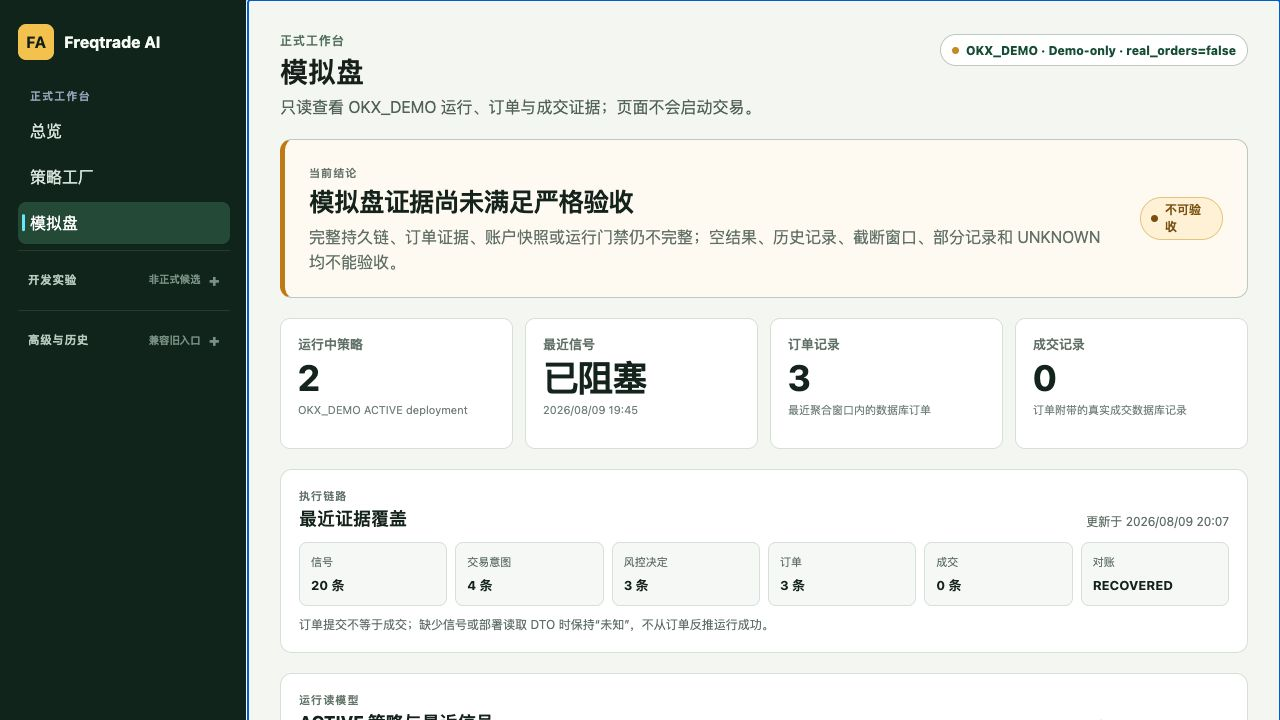
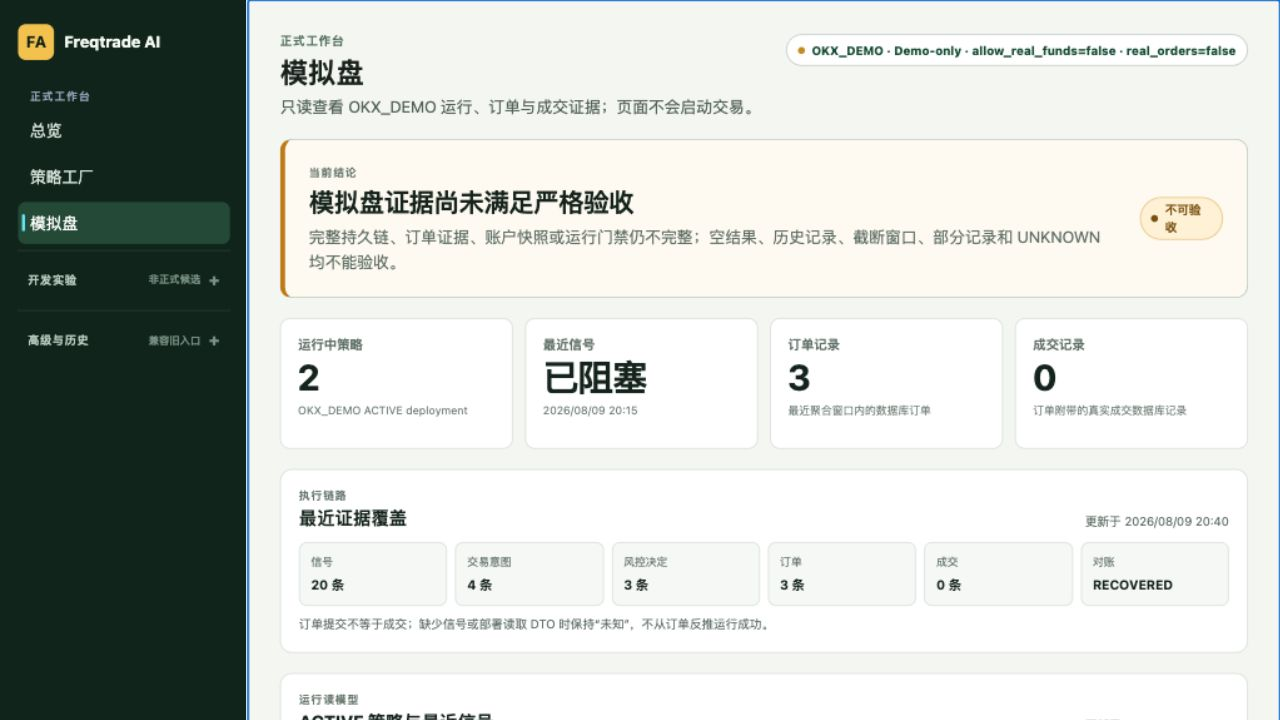
fix(frontend): complete desktop formal page states

diff --git a/frontend/src/pages/Dashboard.tsx b/frontend/src/pages/Dashboard.tsx
@@ -14,7 +14,7 @@ import { useFormalCatalogData } from "../api/useFormalCatalogData";
 import { EmptyState, FormalLoadingState, PageHeader, StatusBadge } from "../components/DisplayPrimitives";
 import { okxDemoAcceptanceIsTruthful } from "./okxDemoDisplay";
 import { deploymentHandoffText, validatedCandidateCount } from "./strategyFactoryModel";
-import { displayDateTime } from "./uiCopy";
+import { displayDateTime, displayStatus } from "./uiCopy";
 
 type Loadable<T> = {
   data: T | null;
@@ -70,14 +70,22 @@ export function Dashboard() {
     : null;
   const dataHasProblem = Boolean(catalog.strategies.error || catalog.ranking.error || researchRun.error || workspace.error || runtimeActivity.error || demo.error);
   const pageLoading = catalog.strategies.loading || catalog.ranking.loading || researchRun.loading || workspace.loading || runtimeActivity.loading || demo.loading;
+  const latestSignalStatus = runtimeActivity.data?.recent_signal_evaluations[0]?.status ?? null;
+  const businessBlocked = Boolean(
+    (demo.data && !okxDemoAcceptanceIsTruthful(demo.data))
+    || latestSignalStatus === "BLOCKED"
+    || latestSignalStatus === "FAILED",
+  );
   const pageConclusion = pageLoading
     ? "正在核对正式研究与模拟盘证据"
     : dataHasProblem
       ? "部分状态无法确认，未把缺失数据计为 0"
-      : runtimeActivity.data?.active_deployments.length
-        ? "模拟盘有运行中策略，继续核对最近信号与执行证据"
-        : "正式证据已读取，当前没有 ACTIVE 模拟盘部署";
-  const pageStatus = pageLoading ? "RUNNING" : dataHasProblem ? "UNKNOWN" : "READY";
+      : businessBlocked
+        ? "模拟盘证据未满足严格验收，先核对运行与对账阻断"
+        : runtimeActivity.data?.active_deployments.length
+          ? "模拟盘有运行中策略，继续核对最近信号与执行证据"
+          : "正式证据已读取，当前没有 ACTIVE 模拟盘部署";
+  const pageStatus = pageLoading ? "RUNNING" : dataHasProblem ? "UNKNOWN" : businessBlocked ? "BLOCKED" : "READY";
   const fills = demo.data?.orders.reduce((total, order) => total + order.fills.length, 0) ?? null;
   const activities = useMemo(() => {
     const items: Array<{ id: string; title: string; meta: string; status: string }> = [];
@@ -111,20 +119,27 @@ export function Dashboard() {
   return (
     <section className="page dashboard-page formal-page">
       <PageHeader
-        actions={<span className="formal-target-chip">OKX_DEMO · Demo-only</span>}
+        actions={(
+          <>
+            <span className="formal-target-chip">OKX_DEMO · Demo-only</span>
+            <span className="formal-context-chip">Live：状态未知 · 无切换入口</span>
+          </>
+        )}
         description="先看结论、研究进度与模拟盘证据；技术详情按需展开。"
         eyebrow="正式工作台"
-        status={<StatusBadge label={pageLoading ? "读取中" : dataHasProblem ? "部分未知" : "已读取"} status={pageStatus} />}
+        status={<StatusBadge label={pageLoading ? "读取中" : dataHasProblem ? "部分未知" : businessBlocked ? "需关注" : "已读取"} status={pageStatus} />}
         title="总览"
       />
 
-      <section className="formal-conclusion" data-state={dataHasProblem ? "attention" : "neutral"}>
+      <section className="formal-conclusion" data-state={dataHasProblem || businessBlocked ? "attention" : "neutral"}>
         <div>
           <span className="formal-kicker">当前结论</span>
           <h2>{pageConclusion}</h2>
           <p>
             {dataHasProblem
               ? "可用区块继续展示真实数据；读取失败的区块保持未知，不推断系统空闲或运行正常。"
+              : businessBlocked
+                ? "只读证据已返回，但至少一项信号、订单、账户或对账条件未通过；页面不会把有记录等同于可验收。"
               : "页面不会把目录 active、QUALIFIED 或订单记录替代为 ACTIVE 部署与 signal evaluation。"}
           </p>
         </div>
@@ -213,7 +228,7 @@ export function Dashboard() {
           <dl className="formal-summary-list">
             <div><dt>部署交接</dt><dd>{workspace.data?.handoff_status === "CANONICAL_LINK_UNAVAILABLE" ? "正式生命周期衔接证据尚不可用" : deploymentHandoffText(latestResearchRun)}</dd></div>
             <div><dt>ACTIVE 运行策略</dt><dd>{runtimeActivity.loading ? "读取中" : runtimeActivity.error ? "未知" : `${runtimeActivity.data?.active_deployments.length ?? 0} 个`}</dd></div>
-            <div><dt>最近信号评估</dt><dd>{runtimeActivity.loading ? "读取中" : runtimeActivity.error ? "未知" : runtimeActivity.data?.recent_signal_evaluations[0]?.status ?? "当前无信号"}</dd></div>
+            <div><dt>最近信号评估</dt><dd>{runtimeActivity.loading ? "读取中" : runtimeActivity.error ? "未知" : latestSignalStatus ? displayStatus(latestSignalStatus) : "当前无信号"}</dd></div>
           </dl>
           <p className="formal-muted">QUALIFIED 只代表可进入评审，不代表已批准、已部署或正在运行。</p>
         </section>

diff --git a/frontend/src/pages/StrategyDetail.tsx b/frontend/src/pages/StrategyDetail.tsx
@@ -102,6 +102,7 @@ export function StrategyDetail() {
     return (
       <section className="page strategy-page">
         <PageHeader
+          actions={<Link className="formal-text-link" to="/strategies">返回策略工厂</Link>}
           title="策略详情"
           description="查看策略概要、当前版本和可追溯技术证据。"
           status={<StatusBadge label={displayLoadState(isLoading, source)} status={isLoading ? "RUNNING" : source} />}
@@ -168,7 +169,10 @@ export function StrategyDetail() {
             <>
               <strong>v{strategy.currentVersion.versionNumber}</strong>
               <StatusBadge showRaw status={strategy.currentVersion.validationStatus} />
-              <CopyableValue label="策略文件路径" value={strategy.currentVersion.filePath} />
+              <details className="formal-disclosure">
+                <summary>查看策略文件路径</summary>
+                <CopyableValue label="策略文件路径" value={strategy.currentVersion.filePath} />
+              </details>
             </>
           ) : (
             <>
@@ -190,7 +194,10 @@ export function StrategyDetail() {
           <span>策略说明</span>
           <p>{displayValue(strategy.description)}</p>
         </div>
-        <CopyableValue label="策略 ID" value={strategy.id} />
+        <details className="formal-disclosure">
+          <summary>查看策略 ID</summary>
+          <CopyableValue label="策略 ID" value={strategy.id} />
+        </details>
       </section>
 
       {problemCount > 0 ? (

diff --git a/frontend/src/layout/AppLayout.tsx b/frontend/src/layout/AppLayout.tsx
@@ -59,7 +59,7 @@ export function AppLayout() {
   const currentLabel = navigationLabelForPath(pathname);
   const [mobileOpen, setMobileOpen] = useState(false);
   const mainRef = useRef<HTMLElement>(null);
-  const developmentRoute = pathname.startsWith("/local-strategy-lab") || pathname.startsWith("/operator-dashboard");
+  const developmentRoute = pathname.startsWith("/operator-dashboard");
   const historicalRoute = ["/generation-runs", "/backtest-runs", "/backtest-tasks", "/hyperopt-runs", "/ranking", "/live-governance"]
     .some((prefix) => pathname.startsWith(prefix));
 
@@ -131,12 +131,12 @@ export function AppLayout() {
         {developmentRoute ? (
           <aside className="formal-context-banner" data-kind="development">
             <div><strong>开发实验</strong><span>本页结果不进入正式候选生命周期，也不计入正式工作台数字。</span></div>
-            <Link to="/strategies">返回策略工厂</Link>
+            <Link to="/okx-demo">返回模拟盘</Link>
           </aside>
         ) : historicalRoute ? (
           <aside className="formal-context-banner" data-kind="historical">
             <div><strong>高级与历史证据</strong><span>本页保留兼容查询，不推进正式候选、部署或订单生命周期。</span></div>
-            <Link to={pathname.startsWith("/operator") ? "/okx-demo" : "/strategies"}>返回正式入口</Link>
+            <Link to="/strategies">返回策略工厂</Link>
           </aside>
         ) : null}
         <Outlet />

diff --git a/frontend/tests/desktopRoutes.e2e.ts b/frontend/tests/desktopRoutes.e2e.ts
@@ -48,8 +48,23 @@ test("strategy detail route renders against the isolated database", async ({ pag
 
   await page.goto(`/strategies/${strategies[0].id}`);
   await expectPageReady(page);
+  await expect(page.getByRole("link", { name: "返回策略工厂" })).toHaveAttribute("href", "/strategies");
 
   expect(problems).toEqual([]);
+});
+
+test("missing strategy remains explicit and links back to the formal factory", async ({ page }) => {
+  await page.goto("/strategies/__missing_strategy__");
+  await expect(page.getByRole("heading", { level: 1, name: "策略详情" })).toBeVisible();
+  await expect(page.getByText("未找到策略")).toBeVisible();
+  await expect(page.getByRole("link", { name: "返回策略工厂" })).toHaveAttribute("href", "/strategies");
+});
+
+test("formal strategy API failure stays unknown instead of becoming an empty library", async ({ page }) => {
+  await page.route("**/api/strategies", (route) => route.fulfill({ status: 503, body: "catalog unavailable" }));
+  await page.goto("/strategies");
+  await expect(page.getByText("正式策略库状态未知")).toBeVisible();
+  await expect(page.getByText("暂无真实策略")).toHaveCount(0);
 });
 
 test("unknown route renders the desktop 404 page", async ({ page }) => {

diff --git a/frontend/src/pages/OkxDemo.tsx b/frontend/src/pages/OkxDemo.tsx
@@ -242,7 +242,7 @@ export function OkxDemo() {
         eyebrow="正式工作台"
         title="模拟盘"
         description="只读查看 OKX_DEMO 运行、订单与成交证据；页面不会启动交易。"
-        status={<span className="formal-target-chip">OKX_DEMO · Demo-only · real_orders=false</span>}
+        status={<span className="formal-target-chip">OKX_DEMO · Demo-only · allow_real_funds=false · real_orders=false</span>}
       />
 
       {searchParams.get("from") === "freq-ui" ? (
@@ -407,6 +407,15 @@ export function OkxDemo() {
         </div>
         {selectedOrder ? <OrderDetail data={data} order={selectedOrder} /> : null}
       </section>
+
+      {fillCount === 0 ? (
+        <section className="formal-panel" aria-labelledby="demo-fill-empty-title">
+          <div className="okx-empty">
+            <strong id="demo-fill-empty-title">当前没有成交记录</strong>
+            <p>查询成功且最近证据窗口内没有权威成交数据库记录；订单提交、接受或历史订单均不等于成交。</p>
+          </div>
+        </section>
+      ) : null}
 
       <section className="okx-secondary-grid">
         <article>

diff --git a/frontend/tests/formalWorkspace.e2e.ts b/frontend/tests/formalWorkspace.e2e.ts
@@ -24,9 +24,12 @@ for (const viewport of [
 test("legacy and development routes provide a one-hop return to the formal workspace", async ({ page }) => {
   await page.goto("/generation-runs");
   await expect(page.getByText("高级与历史证据")).toBeVisible();
-  await expect(page.getByRole("link", { name: "返回正式入口" })).toHaveAttribute("href", "/strategies");
+  await expect(page.getByRole("link", { name: "返回策略工厂" })).toHaveAttribute("href", "/strategies");
 
   await page.goto("/local-strategy-lab");
-  await expect(page.locator("#main-content").getByText("开发实验", { exact: true })).toBeVisible();
+  await expect(page.locator("#main-content").getByText(/开发实验，不进入正式候选生命周期/)).toBeVisible();
   await expect(page.getByRole("link", { name: "返回策略工厂" })).toHaveAttribute("href", "/strategies");
+
+  await page.goto("/operator-dashboard");
+  await expect(page.getByRole("link", { name: "返回模拟盘" })).toHaveAttribute("href", "/okx-demo");
 });

diff --git a/frontend/src/pages/LocalStrategyLab.tsx b/frontend/src/pages/LocalStrategyLab.tsx
@@ -1,4 +1,5 @@
 import { type FormEvent, useEffect, useRef, useState } from "react";
+import { Link } from "react-router-dom";
 
 import { StrategyGenerationApiError, createStrategyGenerationRun } from "../api/client";
 import { combineDataSources } from "../api/sourceState";
@@ -268,7 +269,8 @@ export function LocalStrategyLab() {
   return (
     <section className="page local-strategy-lab">
       <PageHeader
-        description="输入策略约束并提交本地生成请求；只有完整 API/DB 持久证据才会显示为成功。"
+        actions={<Link className="formal-text-link" to="/strategies">返回策略工厂</Link>}
+        description="开发实验，不进入正式候选生命周期；仅完整 API/DB 持久证据可显示成功。"
         status={
           <StatusBadge
             label={submissionDisplay.label}

diff --git a/docs/product/screenshots/formal-ui-prototype/README.md b/docs/product/screenshots/formal-ui-prototype/README.md
@@ -2,6 +2,8 @@
 
 评审基线：`1280×720`、真实前端路由、真实只读 API、2026-08-09。截图过程未点击“手动运行一轮研究（10 条）”，未触发运行时、部署、订单或数据库写入。
 
+现有产品仅提供浅色主题，因此深色主题在本轮标记为 N/A，不以未实现的主题切换作为页面验收条件。
+
 当前本地正式数据库仍为 schema v36，尚无 v37 的 append-only research receipt 表。因此研究 workspace 投影读取失败时，页面按设计显示“未知”，没有用 fixture、mock 或历史批次推断为成功。OKX_DEMO 部署、信号、订单和对账区块来自可用的真实只读 API。
 
 | 文件 | 路由 | 覆盖条目 | 评审重点 |
